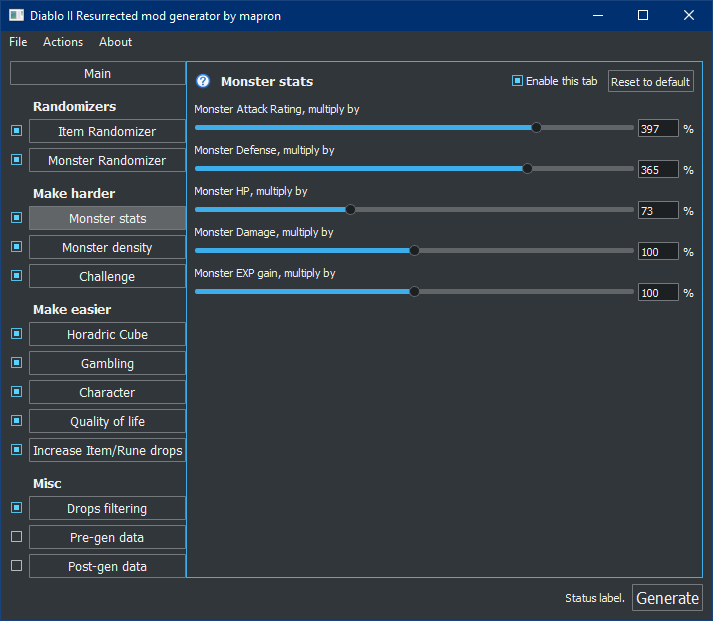
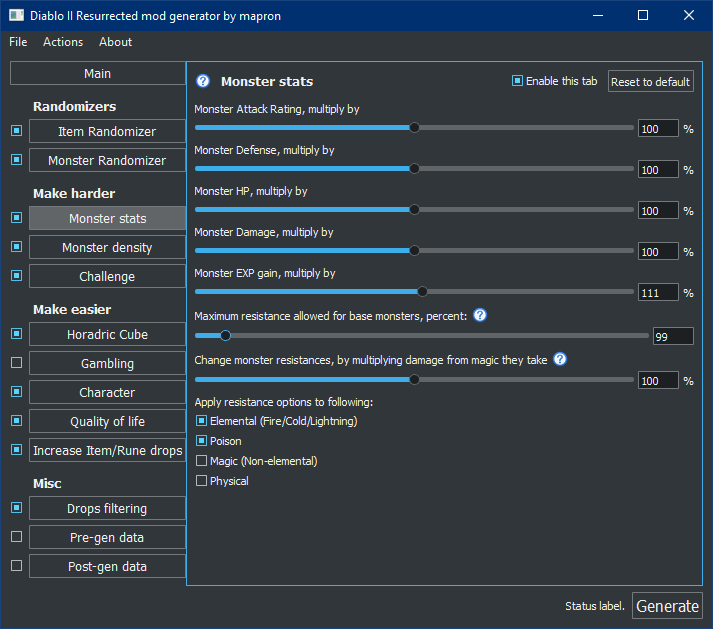
Added few more stats

diff --git a/src/ConfigPages/ConfigPageMonStats.cpp b/src/ConfigPages/ConfigPageMonStats.cpp
@@ -5,6 +5,8 @@
  */
 #include "ConfigPageMonStats.hpp"
 
+#include <QLabel>
+
 namespace D2ModGen {
 
 ConfigPageMonStats::ConfigPageMonStats(QWidget* parent)
@@ -15,7 +17,24 @@ ConfigPageMonStats::ConfigPageMonStats(QWidget* parent)
                << new SliderWidget(tr("Monster Defense, multiply by"), "mon_def", 10, 10, this)
                << new SliderWidget(tr("Monster HP, multiply by"), "mon_hp", 10, 10, this)
                << new SliderWidget(tr("Monster Damage, multiply by"), "mon_dam", 10, 10, this)
-               << new SliderWidget(tr("Monster EXP gain, multiply by"), "mon_xp", 10, 10, this));
+               << new SliderWidget(tr("Monster EXP gain, multiply by"), "mon_xp", 10, 10, this)
+               << addHelp(new SliderWidgetMinMax(tr("Maximum resistance allowed for base monsters, percent:"), "max_resist", 90, 250, 250, this),
+                          tr("If you make this below 100, then regular monsters will have NO RESISTANCES at all!\n"
+                             "Use with caution. You can set this to 110-115, to make cold immunes breakable.\n"
+                             "Also this do not prevent Enchanted monsters to have immunities."))
+               << addHelp(new SliderWidget(tr("Change monster resistances, by multiplying damage from magic they take"), "rel_resist", 10, 10, this),
+                          tr("DO NOT affect IMMUNE monsters and monsters with 0 resistance!\n"
+                             "It affects resistance perent indirectly, through this calculation:\n"
+                             "Lets say you have 200% selected for multiply, and monster has 80% basic Fire resist.\n"
+                             "That means, he has 20% damage taken from fire, and new value will be 40% damage, or 60% resist.\n"
+                             "Damage is capped at 100%, so you won't get negative reistance.\n"
+                             "Also monster can't become immune to element, maximum resistance is 99%")));
+    addWidget(new QLabel(tr("Apply resistance options to following:"), this));
+    addEditors(QList<IValueWidget*>()
+               << new CheckboxWidget("Elemental (Fire/Cold/Lightning)", "resist_apply_elem", true, this)
+               << new CheckboxWidget("Poison", "resist_apply_poison", true, this)
+               << new CheckboxWidget("Magic (Non-elemental)", "resist_apply_magic", false, this)
+               << new CheckboxWidget("Physical", "resist_apply_physical", false, this));
     closeLayout();
 }
 
@@ -31,28 +50,69 @@ void ConfigPageMonStats::generate(DataContext& output, QRandomGenerator& rng, co
     if (isAllDefault())
         return;
 
-    TableView view(output.tableSet.tables["monlvl"], true);
-    auto      proceedMonParam = [&view, this](QString key, QStringList cols) {
-        if (isWidgetValueDefault(key))
-            return;
-        const int percent = getWidgetValue(key);
-        for (auto& row : view) {
-            if (row["Level"] == "0")
-                continue;
-            for (auto& col : cols) {
-                if (!row.hasColumn(col))
+    {
+        TableView view(output.tableSet.tables["monlvl"], true);
+        auto      proceedMonParam = [&view, this](QString key, QStringList cols) {
+            if (isWidgetValueDefault(key))
+                return;
+            const int percent = getWidgetValue(key);
+            for (auto& row : view) {
+                if (row["Level"] == "0")
                     continue;
+                for (auto& col : cols) {
+                    if (!row.hasColumn(col))
+                        continue;
 
-                QString& value = row[col];
-                value          = QString("%1").arg(value.toInt() * percent / 100);
+                    QString& value = row[col];
+                    value          = QString("%1").arg(value.toInt() * percent / 100);
+                }
+            }
+        };
+
+        proceedMonParam("mon_ar", { "TH", "TH(N)", "TH(H)", "L-TH", "L-TH(N)", "L-TH(H)" });
+        proceedMonParam("mon_def", { "AC", "AC(N)", "AC(H)", "L-AC", "L-AC(N)", "L-AC(H)" });
+        proceedMonParam("mon_hp", { "HP", "HP(N)", "HP(H)", "L-HP", "L-HP(N)", "L-HP(H)" });
+        proceedMonParam("mon_dam", { "DM", "DM(N)", "DM(H)", "L-DM", "L-DM(N)", "L-DM(H)" });
+        proceedMonParam("mon_xp", { "XP", "XP(N)", "XP(H)", "L-XP", "L-XP(N)", "L-XP(H)" });
+    }
+
+    {
+        QStringList resColumns;
+        if (getWidgetValue("resist_apply_elem"))
+            resColumns << QStringList{ "ResFi", "ResLi", "ResCo", "ResFi(N)", "ResLi(N)", "ResCo(N)", "ResFi(H)", "ResLi(H)", "ResCo(H)" };
+
+        if (getWidgetValue("resist_apply_poison"))
+            resColumns << QStringList{ "ResPo", "ResPo(N)", "ResPo(H)" };
+
+        if (getWidgetValue("resist_apply_magic"))
+            resColumns << QStringList{ "ResMa", "ResMa(N)", "ResMa(H)" };
+
+        if (getWidgetValue("resist_apply_physical"))
+            resColumns << QStringList{ "ResDm", "ResDm(N)", "ResDm(H)" };
+
+        TableView view(output.tableSet.tables["monstats"], true);
+        const int maxResistCap = getWidgetValue("max_resist");
+        const int relResist    = getWidgetValue("rel_resist");
+        for (auto& col : resColumns) {
+            if (!view.hasColumn(col))
+                continue;
+
+            for (auto& row : view) {
+                const bool isRegular = row["isSpawn"] == "1" && row["killable"] == "1" && row["npc"] == "" && row["boss"] == "";
+                if (!isRegular)
+                    continue;
+                QString& res    = row[col];
+                int      resist = res.toInt();
+                resist          = std::min(maxResistCap, resist);
+                if (resist < 100 && relResist != 100) {
+                    const int damage    = 100 - resist;
+                    const int newDamage = damage * relResist / 100;
+                    resist              = std::clamp(100 - newDamage, 0, std::min(99, maxResistCap));
+                }
+                res = resist == 0 ? "" : QString("%1").arg(resist);
             }
         }
-    };
-
-    proceedMonParam("mon_ar", { "TH", "TH(N)", "TH(H)", "L-TH", "L-TH(N)", "L-TH(H)" });
-    proceedMonParam("mon_def", { "AC", "AC(N)", "AC(H)", "L-AC", "L-AC(N)", "L-AC(H)" });
-    proceedMonParam("mon_hp", { "HP", "HP(N)", "HP(H)", "L-HP", "L-HP(N)", "L-HP(H)" });
-    proceedMonParam("mon_dam", { "DM", "DM(N)", "DM(H)", "L-DM", "L-DM(N)", "L-DM(H)" });
+    }
 }
 
 }
